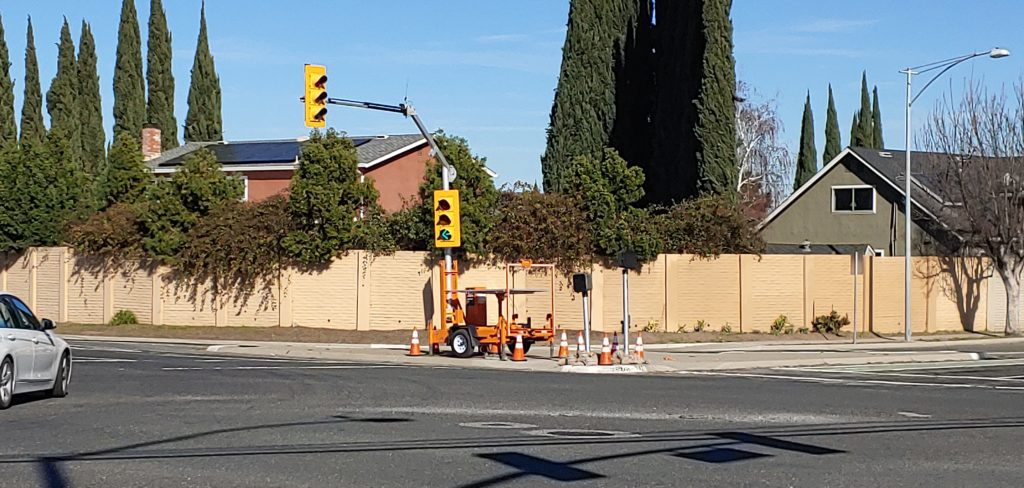
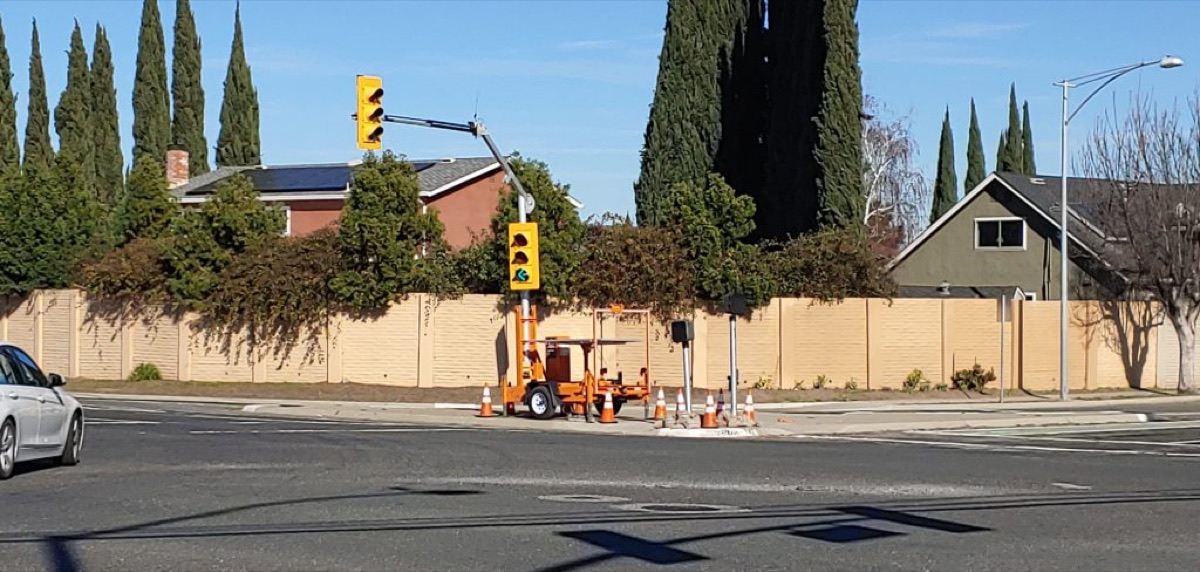
pictures load faster for demo
compressed images to make them load faster

diff --git a/mobile/src/data/sampleIssues.ts b/mobile/src/data/sampleIssues.ts
@@ -7,7 +7,7 @@ export const sampleIssues: SampleIssueRecord[] = [
     title: 'Pothole near San Pedro Square Market',
     image: {
       kind: 'asset',
-      source: require('../../assets/sj_pothole.png'),
+      source: require('../../assets/sj_pothole.jpg'),
       alt: 'Sample pothole photo near San Pedro Square Market',
     },
     locationName: 'San Pedro Square Market',
@@ -45,7 +45,7 @@ export const sampleIssues: SampleIssueRecord[] = [
     title: 'Cracked pavement near Plaza de Cesar Chavez',
     image: {
       kind: 'asset',
-      source: require('../../assets/sj_cracked_road.png'),
+      source: require('../../assets/sj_cracked_road.jpg'),
       alt: 'Sample cracked road photo near Plaza de Cesar Chavez',
     },
     locationName: 'Plaza de Cesar Chavez',
@@ -121,7 +121,7 @@ export const sampleIssues: SampleIssueRecord[] = [
     title: 'Graffiti near Roosevelt Park',
     image: {
       kind: 'asset',
-      source: require('../../assets/sj_graffiti.png'),
+      source: require('../../assets/sj_graffiti.jpg'),
       alt: 'Sample graffiti photo near Roosevelt Park',
     },
     locationName: 'Roosevelt Park',
@@ -159,7 +159,7 @@ export const sampleIssues: SampleIssueRecord[] = [
     title: 'Illegal dumping near St. James Park',
     image: {
       kind: 'asset',
-      source: require('../../assets/sj_illegal_dumping.png'),
+      source: require('../../assets/sj_illegal_dumping.jpg'),
       alt: 'Sample illegal dumping photo near St. James Park',
     },
     locationName: 'St. James Park',

diff --git a/mobile/src/components/SampleIssueImage.tsx b/mobile/src/components/SampleIssueImage.tsx
@@ -1,4 +1,5 @@
-import { Image, ImageStyle, StyleProp, StyleSheet, Text, View, ViewStyle } from 'react-native'
+import { Image } from 'expo-image'
+import { ImageStyle, StyleProp, StyleSheet, Text, View, ViewStyle } from 'react-native'
 import { MaterialCommunityIcons } from '@expo/vector-icons'
 import { SampleIssueImage as SampleIssueImageType } from '../types'
 
@@ -9,11 +10,28 @@ type SampleIssueImageProps = {
 
 export const SampleIssueImage = ({ image, style }: SampleIssueImageProps) => {
   if (image.kind === 'asset') {
-    return <Image source={image.source} style={style} resizeMode="cover" accessibilityLabel={image.alt} />
+    return (
+      <Image
+        source={image.source}
+        style={style}
+        contentFit="cover"
+        transition={150}
+        accessibilityLabel={image.alt}
+      />
+    )
   }
 
   if (image.kind === 'uri') {
-    return <Image source={{ uri: image.uri }} style={style} resizeMode="cover" accessibilityLabel={image.alt} />
+    return (
+      <Image
+        source={{ uri: image.uri }}
+        style={style}
+        contentFit="cover"
+        cachePolicy="memory-disk"
+        transition={150}
+        accessibilityLabel={image.alt}
+      />
+    )
   }
 
   return (

diff --git a/mobile/src/screens/SampleIssuePickerScreen.tsx b/mobile/src/screens/SampleIssuePickerScreen.tsx
@@ -1,6 +1,8 @@
+import { useEffect } from 'react'
 import { Dimensions, FlatList, Pressable, StyleSheet, Text, View } from 'react-native'
 import { SampleIssueImage } from '../components/SampleIssueImage'
 import { sampleIssues } from '../data/sampleIssues'
+import { preloadSampleIssueAssets } from '../lib/preloadSampleAssets'
 
 // Pothole, streetlight, graffiti, illegal dumping, sidewalk — 5 photos
 const GALLERY_ISSUES = sampleIssues.filter((i) => i.id !== 'SJ-D3-DEMO-004')
@@ -18,6 +20,10 @@ export const SampleIssuePickerScreen = ({
   onSelectIssue,
   onOpenCamera,
 }: SampleIssuePickerScreenProps) => {
+  useEffect(() => {
+    void preloadSampleIssueAssets()
+  }, [])
+
   return (
     <View style={styles.page}>
       <View style={styles.header}>
@@ -37,6 +43,10 @@ export const SampleIssuePickerScreen = ({
         keyExtractor={(item) => item.id}
         numColumns={COLS}
         columnWrapperStyle={styles.row}
+        initialNumToRender={6}
+        maxToRenderPerBatch={6}
+        windowSize={3}
+        removeClippedSubviews
         renderItem={({ item }) => (
           <Pressable
             onPress={() => onSelectIssue(item.id)}

diff --git a/mobile/App.tsx b/mobile/App.tsx
@@ -30,6 +30,7 @@ import {
   saveUserSettings,
   UserSettings,
 } from './src/lib/userSettings';
+import { preloadSampleIssueAssets } from './src/lib/preloadSampleAssets';
 
 const CATEGORY_LABEL: Record<MapReportCategoryId, IssueCategory> = {
   pothole:     'Pothole',
@@ -81,15 +82,15 @@ function mapReportToRecord(r: MapReport, isFollowing = false): ReportRecord {
 type ReportSubmission = { mapReport: MapReport; sampleIssue: SampleIssueRecord | null };
 
 const submissionReportImage = (submission: ReportSubmission): SampleIssueImage | null => {
+  if (submission.sampleIssue?.image) {
+    return submission.sampleIssue.image;
+  }
   if (submission.mapReport.photoUrl) {
     return {
       kind: 'uri',
       uri: submission.mapReport.photoUrl,
       alt: submission.mapReport.title,
     };
-  }
-  if (submission.sampleIssue?.image) {
-    return submission.sampleIssue.image;
   }
   return null;
 };
@@ -261,6 +262,12 @@ export default function App() {
       />
     );
   };
+
+  useEffect(() => {
+    if (isSignedIn) {
+      void preloadSampleIssueAssets();
+    }
+  }, [isSignedIn]);
 
   useEffect(() => {
     if (!user?.id) {

diff --git a/mobile/src/screens/IssueStatusScreen.tsx b/mobile/src/screens/IssueStatusScreen.tsx
@@ -64,10 +64,13 @@ export const IssueStatusScreen = ({
         </View>
 
         <View style={styles.photoCard}>
-          {'photoUrl' in report && report.photoUrl ? (
-            <Image source={{ uri: report.photoUrl }} style={{ width: '100%', height: '100%' }} resizeMode="cover" />
-          ) : 'image' in report ? (
+          {'image' in report ? (
             <SampleIssueImage image={report.image} style={{ width: '100%', height: '100%' }} />
+          ) : 'photoUrl' in report && report.photoUrl ? (
+            <SampleIssueImage
+              image={{ kind: 'uri', uri: report.photoUrl, alt: report.title }}
+              style={{ width: '100%', height: '100%' }}
+            />
           ) : (
             <View style={styles.photoPlaceholder}>
               <MaterialCommunityIcons

diff --git a/mobile/src/lib/preloadSampleAssets.ts b/mobile/src/lib/preloadSampleAssets.ts
@@ -1,0 +1,17 @@
+import { Asset } from 'expo-asset'
+import { ImageSourcePropType } from 'react-native'
+import { sampleIssues } from '../data/sampleIssues'
+
+const sampleAssetModules = sampleIssues
+  .map((issue) => issue.image)
+  .filter((image) => image.kind === 'asset')
+  .map((image) => image.source as ImageSourcePropType)
+
+let preloadPromise: Promise<void> | null = null
+
+export const preloadSampleIssueAssets = () => {
+  if (!preloadPromise) {
+    preloadPromise = Asset.loadAsync(sampleAssetModules).then(() => undefined)
+  }
+  return preloadPromise
+}
